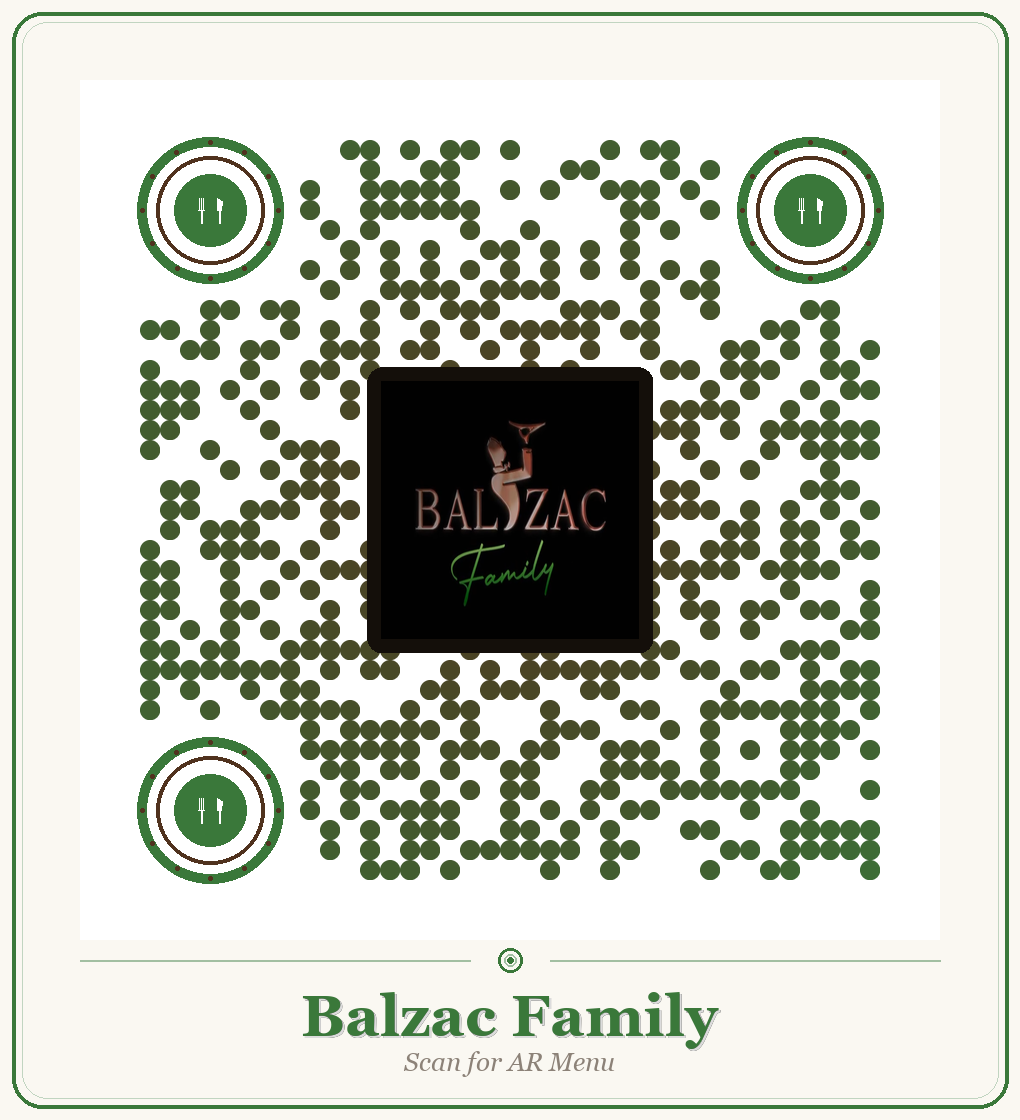
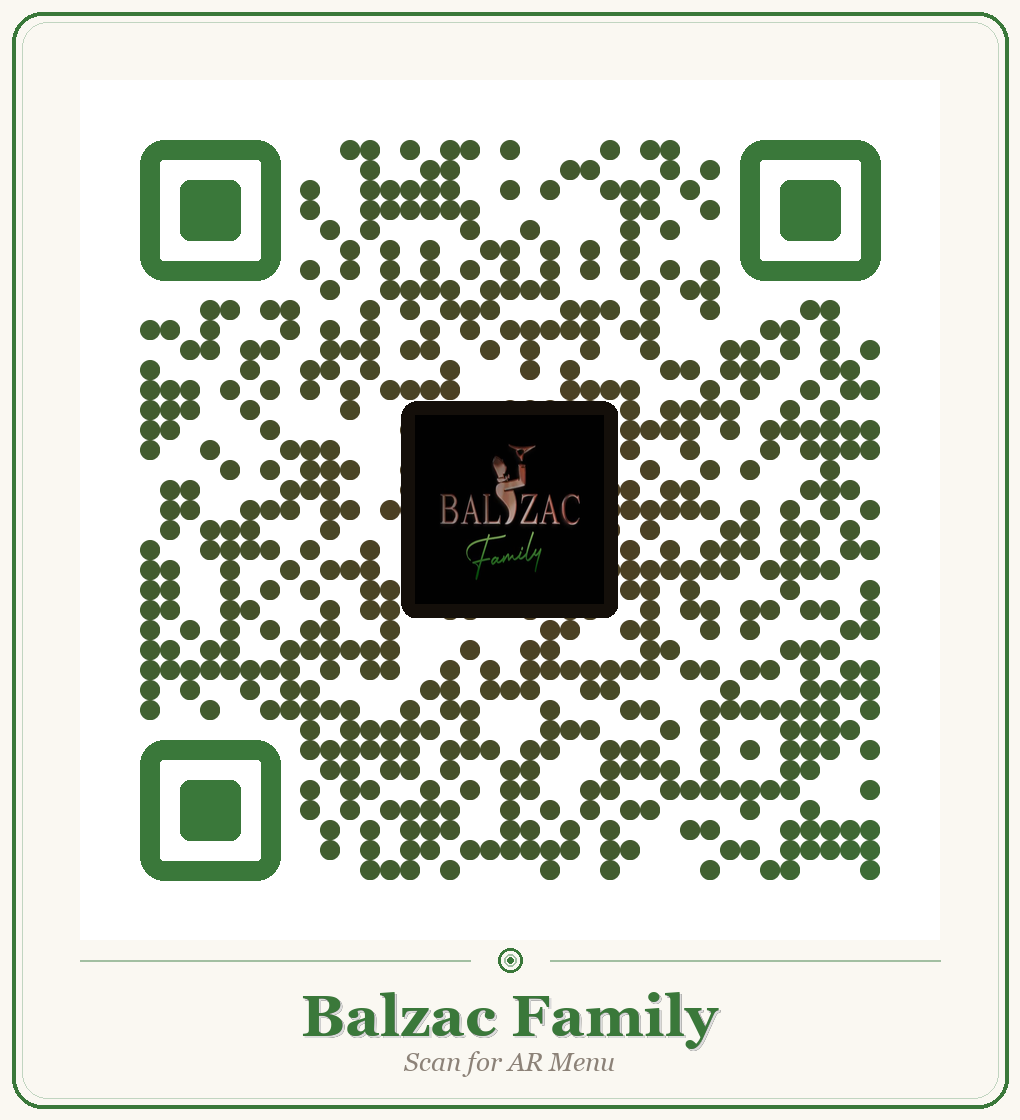
fix QR: заменить декоративные тарелки на корректные позиционные метки
Тарелки-кольца рисовались поверх finder-паттернов и ломали соотношение
сканирующей линии 1:1:3:1:1, из-за чего сканеры не находили код вообще.
Проверено zxing-cpp и opencv: старые qr-code-afra/balzac/bravo/brest
не декодировались ни одним движком, новые читаются оба, в том числе
при уменьшении до 300px и повороте на 15 градусов.

- метки: скруглённый квадрат с рамкой 1 модуль и ядром 3x3
- логотип в центре: 22% ширины вместо 30-32%
- qr-menu.png добавлен в репозиторий

diff --git a/generate_qr_balzac.py b/generate_qr_balzac.py
@@ -35,44 +35,20 @@ box = 20
 border = 3
 
 # === 2. Заменяем угловые квадраты на тарелочки ===
-def draw_plate_finder(img, center_x, center_y, size):
-    plate = Image.new("RGBA", (size, size), (0, 0, 0, 0))
-    pd = ImageDraw.Draw(plate)
-    cx, cy = size // 2, size // 2
-    r = size // 2 - 2
+def draw_plate_finder(img, center_x, center_y, box):
+    """Позиционная метка QR: рамка 1 модуль, зазор 1 модуль, ядро 3x3.
+    Пропорции сканирующей линии 1:1:3:1:1 обязательны по стандарту,
+    декоративные кольца вместо них ломают распознавание."""
+    d = ImageDraw.Draw(img)
+    half = 3.5 * box
+    d.rectangle([center_x - half, center_y - half, center_x + half, center_y + half],
+                fill=(255, 255, 255, 255))
+    d.rounded_rectangle([center_x - half, center_y - half, center_x + half, center_y + half],
+                        radius=box * 1.2, outline=color_main, width=int(box))
+    core = 1.5 * box
+    d.rounded_rectangle([center_x - core, center_y - core, center_x + core, center_y + core],
+                        radius=box * 0.5, fill=color_main)
 
-    pd.ellipse([cx - r, cy - r, cx + r, cy + r], outline=color_main, width=int(r * 0.14))
-    mr = int(r * 0.75)
-    pd.ellipse([cx - mr, cy - mr, cx + mr, cy + mr], outline=color_dark, width=int(r * 0.06))
-    ir = int(r * 0.5)
-    pd.ellipse([cx - ir, cy - ir, cx + ir, cy + ir], fill=color_main)
-
-    fork_h = int(ir * 0.7)
-    fx = cx - int(ir * 0.25)
-    fy = cy - fork_h // 2
-    for t in range(-2, 3, 2):
-        pd.line([(fx + t, fy), (fx + t, fy + fork_h // 2)], fill="white", width=1)
-    pd.line([(fx - 3, fy + fork_h // 2), (fx + 3, fy + fork_h // 2)], fill="white", width=1)
-    pd.line([(fx, fy + fork_h // 2), (fx, fy + fork_h)], fill="white", width=2)
-
-    kx = cx + int(ir * 0.25)
-    ky = cy - fork_h // 2
-    pd.polygon([(kx - 2, ky), (kx + 3, ky + int(fork_h * 0.15)),
-                (kx + 2, ky + fork_h // 2), (kx - 2, ky + fork_h // 2)], fill="white")
-    pd.line([(kx, ky + fork_h // 2), (kx, ky + fork_h)], fill="white", width=2)
-
-    dot_r = int(r * 0.04)
-    for i in range(12):
-        angle = math.radians(i * 30)
-        dx = cx + int((r - int(r * 0.07)) * math.cos(angle))
-        dy = cy + int((r - int(r * 0.07)) * math.sin(angle))
-        pd.ellipse([dx - dot_r, dy - dot_r, dx + dot_r, dy + dot_r], fill=color_dark)
-
-    px = center_x - size // 2
-    py = center_y - size // 2
-    bg = Image.new("RGBA", (size + 8, size + 8), (255, 255, 255, 255))
-    img.paste(bg, (px - 4, py - 4))
-    img.paste(plate, (px, py), plate)
 
 finder_size_modules = 7
 finder_px = finder_size_modules * box
@@ -87,16 +63,16 @@ cy2 = border * box + finder_px // 2
 cx3 = border * box + finder_px // 2
 cy3 = (border + matrix_size - finder_size_modules) * box + finder_px // 2
 
-draw_plate_finder(qr_img, cx1, cy1, finder_px + 10)
-draw_plate_finder(qr_img, cx2, cy2, finder_px + 10)
-draw_plate_finder(qr_img, cx3, cy3, finder_px + 10)
+draw_plate_finder(qr_img, cx1, cy1, box)
+draw_plate_finder(qr_img, cx2, cy2, box)
+draw_plate_finder(qr_img, cx3, cy3, box)
 
 
 # === 3. Вставляем логотип Balzac Family в центр ===
 logo_src = Image.open("J:/Cloude/3D AXROR/balzak.png").convert("RGBA")
 
 # Размер логотипа — 30% от QR
-logo_size = int(qr_w * 0.30)
+logo_size = int(qr_w * 0.22)
 logo_src = logo_src.resize((logo_size, logo_size), Image.LANCZOS)
 
 # Квадратный фон под логотип со скруглёнными углами

diff --git a/generate_qr.py b/generate_qr.py
@@ -33,44 +33,20 @@ border = 3
 color_main = (180, 50, 20)
 color_dark = (40, 25, 50)
 
-def draw_plate_finder(img, center_x, center_y, size):
-    plate = Image.new("RGBA", (size, size), (0, 0, 0, 0))
-    pd = ImageDraw.Draw(plate)
-    cx, cy = size // 2, size // 2
-    r = size // 2 - 2
+def draw_plate_finder(img, center_x, center_y, box):
+    """Позиционная метка QR: рамка 1 модуль, зазор 1 модуль, ядро 3x3.
+    Пропорции сканирующей линии 1:1:3:1:1 обязательны по стандарту,
+    декоративные кольца вместо них ломают распознавание."""
+    d = ImageDraw.Draw(img)
+    half = 3.5 * box
+    d.rectangle([center_x - half, center_y - half, center_x + half, center_y + half],
+                fill=(255, 255, 255, 255))
+    d.rounded_rectangle([center_x - half, center_y - half, center_x + half, center_y + half],
+                        radius=box * 1.2, outline=color_main, width=int(box))
+    core = 1.5 * box
+    d.rounded_rectangle([center_x - core, center_y - core, center_x + core, center_y + core],
+                        radius=box * 0.5, fill=color_main)
 
-    pd.ellipse([cx - r, cy - r, cx + r, cy + r], outline=color_main, width=int(r * 0.14))
-    mr = int(r * 0.75)
-    pd.ellipse([cx - mr, cy - mr, cx + mr, cy + mr], outline=color_dark, width=int(r * 0.06))
-    ir = int(r * 0.5)
-    pd.ellipse([cx - ir, cy - ir, cx + ir, cy + ir], fill=color_main)
-
-    fork_h = int(ir * 0.7)
-    fx = cx - int(ir * 0.25)
-    fy = cy - fork_h // 2
-    for t in range(-2, 3, 2):
-        pd.line([(fx + t, fy), (fx + t, fy + fork_h // 2)], fill="white", width=1)
-    pd.line([(fx - 3, fy + fork_h // 2), (fx + 3, fy + fork_h // 2)], fill="white", width=1)
-    pd.line([(fx, fy + fork_h // 2), (fx, fy + fork_h)], fill="white", width=2)
-
-    kx = cx + int(ir * 0.25)
-    ky = cy - fork_h // 2
-    pd.polygon([(kx - 2, ky), (kx + 3, ky + int(fork_h * 0.15)),
-                (kx + 2, ky + fork_h // 2), (kx - 2, ky + fork_h // 2)], fill="white")
-    pd.line([(kx, ky + fork_h // 2), (kx, ky + fork_h)], fill="white", width=2)
-
-    dot_r = int(r * 0.04)
-    for i in range(12):
-        angle = math.radians(i * 30)
-        dx = cx + int((r - int(r * 0.07)) * math.cos(angle))
-        dy = cy + int((r - int(r * 0.07)) * math.sin(angle))
-        pd.ellipse([dx - dot_r, dy - dot_r, dx + dot_r, dy + dot_r], fill=color_dark)
-
-    px = center_x - size // 2
-    py = center_y - size // 2
-    bg = Image.new("RGBA", (size + 8, size + 8), (255, 255, 255, 255))
-    img.paste(bg, (px - 4, py - 4))
-    img.paste(plate, (px, py), plate)
 
 finder_size_modules = 7
 finder_px = finder_size_modules * box
@@ -85,16 +61,16 @@ cy2 = border * box + finder_px // 2
 cx3 = border * box + finder_px // 2
 cy3 = (border + matrix_size - finder_size_modules) * box + finder_px // 2
 
-draw_plate_finder(qr_img, cx1, cy1, finder_px + 10)
-draw_plate_finder(qr_img, cx2, cy2, finder_px + 10)
-draw_plate_finder(qr_img, cx3, cy3, finder_px + 10)
+draw_plate_finder(qr_img, cx1, cy1, box)
+draw_plate_finder(qr_img, cx2, cy2, box)
+draw_plate_finder(qr_img, cx3, cy3, box)
 
 
 # === 3. Вставляем повара-картинку в центр ===
 chef_src = Image.open("J:/Cloude/3D AXROR/turkish-chef.png").convert("RGBA")
 
 # Размер повара — 30% от QR
-chef_size = int(qr_w * 0.32)
+chef_size = int(qr_w * 0.22)
 chef_src = chef_src.resize((chef_size, chef_size), Image.LANCZOS)
 
 # Белый круглый фон под повара чтобы QR точки не мешали

diff --git a/generate_qr_bravo.py b/generate_qr_bravo.py
@@ -35,39 +35,20 @@ box = 20
 border = 3
 
 # === 2. Тарелочки в углах ===
-def draw_plate_finder(img, center_x, center_y, size):
-    plate = Image.new("RGBA", (size, size), (0, 0, 0, 0))
-    pd = ImageDraw.Draw(plate)
-    cx, cy = size // 2, size // 2
-    r = size // 2 - 2
-    pd.ellipse([cx - r, cy - r, cx + r, cy + r], outline=color_main, width=int(r * 0.14))
-    mr = int(r * 0.75)
-    pd.ellipse([cx - mr, cy - mr, cx + mr, cy + mr], outline=color_dark, width=int(r * 0.06))
-    ir = int(r * 0.5)
-    pd.ellipse([cx - ir, cy - ir, cx + ir, cy + ir], fill=color_main)
-    fork_h = int(ir * 0.7)
-    fx = cx - int(ir * 0.25)
-    fy = cy - fork_h // 2
-    for t in range(-2, 3, 2):
-        pd.line([(fx + t, fy), (fx + t, fy + fork_h // 2)], fill="white", width=1)
-    pd.line([(fx - 3, fy + fork_h // 2), (fx + 3, fy + fork_h // 2)], fill="white", width=1)
-    pd.line([(fx, fy + fork_h // 2), (fx, fy + fork_h)], fill="white", width=2)
-    kx = cx + int(ir * 0.25)
-    ky = cy - fork_h // 2
-    pd.polygon([(kx - 2, ky), (kx + 3, ky + int(fork_h * 0.15)),
-                (kx + 2, ky + fork_h // 2), (kx - 2, ky + fork_h // 2)], fill="white")
-    pd.line([(kx, ky + fork_h // 2), (kx, ky + fork_h)], fill="white", width=2)
-    dot_r = int(r * 0.04)
-    for i in range(12):
-        angle = math.radians(i * 30)
-        dx = cx + int((r - int(r * 0.07)) * math.cos(angle))
-        dy = cy + int((r - int(r * 0.07)) * math.sin(angle))
-        pd.ellipse([dx - dot_r, dy - dot_r, dx + dot_r, dy + dot_r], fill=color_dark)
-    px = center_x - size // 2
-    py = center_y - size // 2
-    bg = Image.new("RGBA", (size + 8, size + 8), (255, 255, 255, 255))
-    img.paste(bg, (px - 4, py - 4))
-    img.paste(plate, (px, py), plate)
+def draw_plate_finder(img, center_x, center_y, box):
+    """Позиционная метка QR: рамка 1 модуль, зазор 1 модуль, ядро 3x3.
+    Пропорции сканирующей линии 1:1:3:1:1 обязательны по стандарту,
+    декоративные кольца вместо них ломают распознавание."""
+    d = ImageDraw.Draw(img)
+    half = 3.5 * box
+    d.rectangle([center_x - half, center_y - half, center_x + half, center_y + half],
+                fill=(255, 255, 255, 255))
+    d.rounded_rectangle([center_x - half, center_y - half, center_x + half, center_y + half],
+                        radius=box * 1.2, outline=color_main, width=int(box))
+    core = 1.5 * box
+    d.rounded_rectangle([center_x - core, center_y - core, center_x + core, center_y + core],
+                        radius=box * 0.5, fill=color_main)
+
 
 finder_size_modules = 7
 finder_px = finder_size_modules * box
@@ -78,13 +59,13 @@ cx2 = (border + matrix_size - finder_size_modules) * box + finder_px // 2
 cy2 = border * box + finder_px // 2
 cx3 = border * box + finder_px // 2
 cy3 = (border + matrix_size - finder_size_modules) * box + finder_px // 2
-draw_plate_finder(qr_img, cx1, cy1, finder_px + 10)
-draw_plate_finder(qr_img, cx2, cy2, finder_px + 10)
-draw_plate_finder(qr_img, cx3, cy3, finder_px + 10)
+draw_plate_finder(qr_img, cx1, cy1, box)
+draw_plate_finder(qr_img, cx2, cy2, box)
+draw_plate_finder(qr_img, cx3, cy3, box)
 
 # === 3. Логотип Bravo в центре ===
 logo_src = Image.open("J:/Cloude/3D AXROR/logobravo.png").convert("RGBA")
-logo_size = int(qr_w * 0.30)
+logo_size = int(qr_w * 0.22)
 logo_src = logo_src.resize((logo_size, logo_size), Image.LANCZOS)
 
 pad = 14

diff --git a/generate_qr_brest.py b/generate_qr_brest.py
@@ -35,39 +35,20 @@ box = 20
 border = 3
 
 # === 2. Тарелочки в углах ===
-def draw_plate_finder(img, center_x, center_y, size):
-    plate = Image.new("RGBA", (size, size), (0, 0, 0, 0))
-    pd = ImageDraw.Draw(plate)
-    cx, cy = size // 2, size // 2
-    r = size // 2 - 2
-    pd.ellipse([cx - r, cy - r, cx + r, cy + r], outline=color_main, width=int(r * 0.14))
-    mr = int(r * 0.75)
-    pd.ellipse([cx - mr, cy - mr, cx + mr, cy + mr], outline=color_dark, width=int(r * 0.06))
-    ir = int(r * 0.5)
-    pd.ellipse([cx - ir, cy - ir, cx + ir, cy + ir], fill=color_main)
-    fork_h = int(ir * 0.7)
-    fx = cx - int(ir * 0.25)
-    fy = cy - fork_h // 2
-    for t in range(-2, 3, 2):
-        pd.line([(fx + t, fy), (fx + t, fy + fork_h // 2)], fill="white", width=1)
-    pd.line([(fx - 3, fy + fork_h // 2), (fx + 3, fy + fork_h // 2)], fill="white", width=1)
-    pd.line([(fx, fy + fork_h // 2), (fx, fy + fork_h)], fill="white", width=2)
-    kx = cx + int(ir * 0.25)
-    ky = cy - fork_h // 2
-    pd.polygon([(kx - 2, ky), (kx + 3, ky + int(fork_h * 0.15)),
-                (kx + 2, ky + fork_h // 2), (kx - 2, ky + fork_h // 2)], fill="white")
-    pd.line([(kx, ky + fork_h // 2), (kx, ky + fork_h)], fill="white", width=2)
-    dot_r = int(r * 0.04)
-    for i in range(12):
-        angle = math.radians(i * 30)
-        dx = cx + int((r - int(r * 0.07)) * math.cos(angle))
-        dy = cy + int((r - int(r * 0.07)) * math.sin(angle))
-        pd.ellipse([dx - dot_r, dy - dot_r, dx + dot_r, dy + dot_r], fill=color_dark)
-    px = center_x - size // 2
-    py = center_y - size // 2
-    bg = Image.new("RGBA", (size + 8, size + 8), (255, 255, 255, 255))
-    img.paste(bg, (px - 4, py - 4))
-    img.paste(plate, (px, py), plate)
+def draw_plate_finder(img, center_x, center_y, box):
+    """Позиционная метка QR: рамка 1 модуль, зазор 1 модуль, ядро 3x3.
+    Пропорции сканирующей линии 1:1:3:1:1 обязательны по стандарту,
+    декоративные кольца вместо них ломают распознавание."""
+    d = ImageDraw.Draw(img)
+    half = 3.5 * box
+    d.rectangle([center_x - half, center_y - half, center_x + half, center_y + half],
+                fill=(255, 255, 255, 255))
+    d.rounded_rectangle([center_x - half, center_y - half, center_x + half, center_y + half],
+                        radius=box * 1.2, outline=color_main, width=int(box))
+    core = 1.5 * box
+    d.rounded_rectangle([center_x - core, center_y - core, center_x + core, center_y + core],
+                        radius=box * 0.5, fill=color_main)
+
 
 finder_size_modules = 7
 finder_px = finder_size_modules * box
@@ -78,13 +59,13 @@ cx2 = (border + matrix_size - finder_size_modules) * box + finder_px // 2
 cy2 = border * box + finder_px // 2
 cx3 = border * box + finder_px // 2
 cy3 = (border + matrix_size - finder_size_modules) * box + finder_px // 2
-draw_plate_finder(qr_img, cx1, cy1, finder_px + 10)
-draw_plate_finder(qr_img, cx2, cy2, finder_px + 10)
-draw_plate_finder(qr_img, cx3, cy3, finder_px + 10)
+draw_plate_finder(qr_img, cx1, cy1, box)
+draw_plate_finder(qr_img, cx2, cy2, box)
+draw_plate_finder(qr_img, cx3, cy3, box)
 
 # === 3. Логотип Brest в центре ===
 logo_src = Image.open("J:/Cloude/3D AXROR/brest.png").convert("RGBA")
-logo_size = int(qr_w * 0.30)
+logo_size = int(qr_w * 0.22)
 logo_src = logo_src.resize((logo_size, logo_size), Image.LANCZOS)
 
 pad = 14
